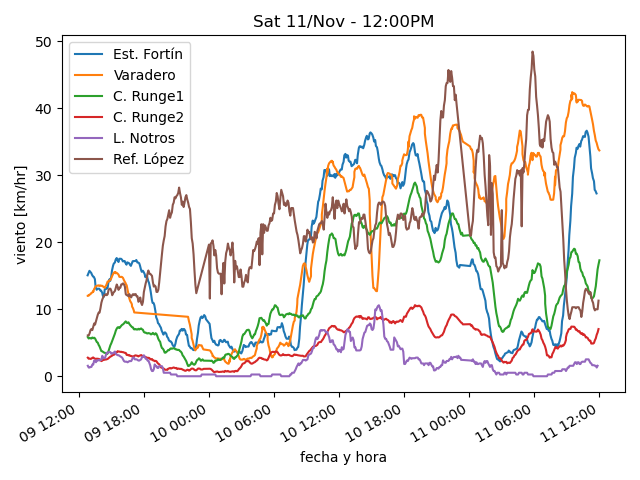
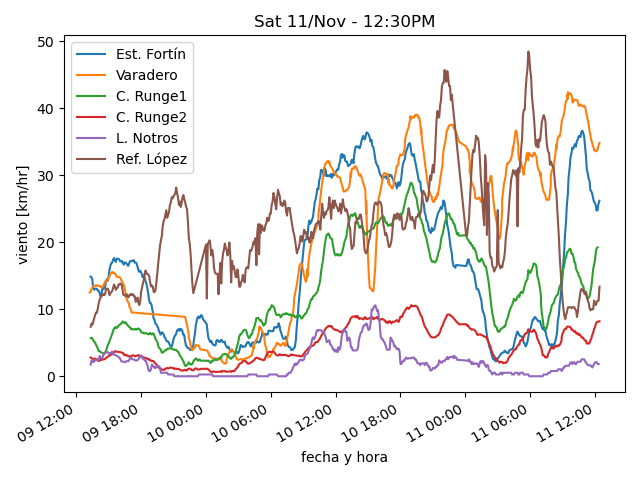
actualiza datos

diff --git a/estaciones/estacion1.html b/estaciones/estacion1.html
@@ -18,32 +18,32 @@
     </tr>
     <tr>
      <td class="stats_data">
-      11:44AM
+      12:24PM
      </td>
     </tr>
     <tr>
      <td class="stats_data">
-      4.7⁰C
+      5.1⁰C
      </td>
     </tr>
     <tr>
      <td class="stats_data">
-      1.1⁰C
+      0.6⁰C
      </td>
     </tr>
     <tr>
      <td class="stats_data">
-      77.7%
+      72.7%
      </td>
     </tr>
     <tr>
      <td class="stats_data">
-      1001.02hPa
+      1001.36hPa
      </td>
     </tr>
     <tr>
      <td class="stats_data">
-      15.1/27.4 km/hr WNW
+      17.6/31.7 km/hr W
      </td>
     </tr>
     <tr>
@@ -53,12 +53,12 @@
     </tr>
     <tr>
      <td class="stats_data">
-      1.4
+      3.2
      </td>
     </tr>
     <tr>
      <td class="stats_data">
-      216.0 W/m²
+      446.0 W/m²
      </td>
     </tr>
    </tbody>

diff --git a/estaciones/estacion2.html b/estaciones/estacion2.html
@@ -18,32 +18,32 @@
     </tr>
     <tr>
      <td class="stats_data">
-      11:59AM
+      12:24PM
      </td>
     </tr>
     <tr>
      <td class="stats_data">
-      4.6⁰C
+      4.5⁰C
      </td>
     </tr>
     <tr>
      <td class="stats_data">
-      3.1⁰C
+      2.9⁰C
      </td>
     </tr>
     <tr>
      <td class="stats_data">
-      90.2%
+      89.7%
      </td>
     </tr>
     <tr>
      <td class="stats_data">
-      1008.23hPa
+      1008.74hPa
      </td>
     </tr>
     <tr>
      <td class="stats_data">
-      27.2/31.6 km/hr NW
+      34.2/40.0 km/hr NW
      </td>
     </tr>
     <tr>
@@ -53,12 +53,12 @@
     </tr>
     <tr>
      <td class="stats_data">
-      4.0
+      2.0
      </td>
     </tr>
     <tr>
      <td class="stats_data">
-      419.9 W/m²
+      298.0 W/m²
      </td>
     </tr>
    </tbody>

diff --git a/estaciones/estacion4.html b/estaciones/estacion4.html
@@ -18,32 +18,32 @@
     </tr>
     <tr>
      <td class="stats_data">
-      11:54AM
+      12:24PM
      </td>
     </tr>
     <tr>
      <td class="stats_data">
-      3.2⁰C
+      2.9⁰C
      </td>
     </tr>
     <tr>
      <td class="stats_data">
-      2.0⁰C
+      1.9⁰C
      </td>
     </tr>
     <tr>
      <td class="stats_data">
-      92.4%
+      93.7%
      </td>
     </tr>
     <tr>
      <td class="stats_data">
-      1001.93hPa
+      1002.54hPa
      </td>
     </tr>
     <tr>
      <td class="stats_data">
-      5.5/8.9 km/hr SW
+      5.4/8.9 km/hr SW
      </td>
     </tr>
     <tr>
@@ -58,7 +58,7 @@
     </tr>
     <tr>
      <td class="stats_data">
-      204.0 W/m²
+      162.6 W/m²
      </td>
     </tr>
    </tbody>

diff --git a/estaciones/estacion6.html b/estaciones/estacion6.html
@@ -18,17 +18,17 @@
     </tr>
     <tr>
      <td class="stats_data">
-      11:55AM
+      12:25PM
      </td>
     </tr>
     <tr>
      <td class="stats_data">
-      -2.9⁰C
+      -3.2⁰C
      </td>
     </tr>
     <tr>
      <td class="stats_data">
-      -3.6⁰C
+      -3.9⁰C
      </td>
     </tr>
     <tr>
@@ -38,12 +38,12 @@
     </tr>
     <tr>
      <td class="stats_data">
-      1000.58hPa
+      1001.32hPa
      </td>
     </tr>
     <tr>
      <td class="stats_data">
-      9.7/20.9 km/hr NE
+      16.1/32.2 km/hr SE
      </td>
     </tr>
     <tr>
@@ -58,7 +58,7 @@
     </tr>
     <tr>
      <td class="stats_data">
-      904.0 W/m²
+      898.0 W/m²
      </td>
     </tr>
    </tbody>

diff --git a/estaciones/estacion3.html b/estaciones/estacion3.html
@@ -18,32 +18,32 @@
     </tr>
     <tr>
      <td class="stats_data">
-      11:59AM
+      12:14PM
      </td>
     </tr>
     <tr>
      <td class="stats_data">
-      2.9⁰C
+      2.5⁰C
      </td>
     </tr>
     <tr>
      <td class="stats_data">
-      2.4⁰C
+      2.1⁰C
      </td>
     </tr>
     <tr>
      <td class="stats_data">
-      96.0%
+      97.2%
      </td>
     </tr>
     <tr>
      <td class="stats_data">
-      993.23hPa
+      993.33hPa
      </td>
     </tr>
     <tr>
      <td class="stats_data">
-      12.9/18.6 km/hr NW
+      12.4/17.6 km/hr NNW
      </td>
     </tr>
     <tr>

diff --git a/estaciones/estacion5.html b/estaciones/estacion5.html
@@ -18,17 +18,17 @@
     </tr>
     <tr>
      <td class="stats_data">
-      11:50AM
+      12:20PM
      </td>
     </tr>
     <tr>
      <td class="stats_data">
-      3.4⁰C
+      3.7⁰C
      </td>
     </tr>
     <tr>
      <td class="stats_data">
-      2.0⁰C
+      2.1⁰C
      </td>
     </tr>
     <tr>
@@ -38,7 +38,7 @@
     </tr>
     <tr>
      <td class="stats_data">
-      1005.25hPa
+      1005.62hPa
      </td>
     </tr>
     <tr>
